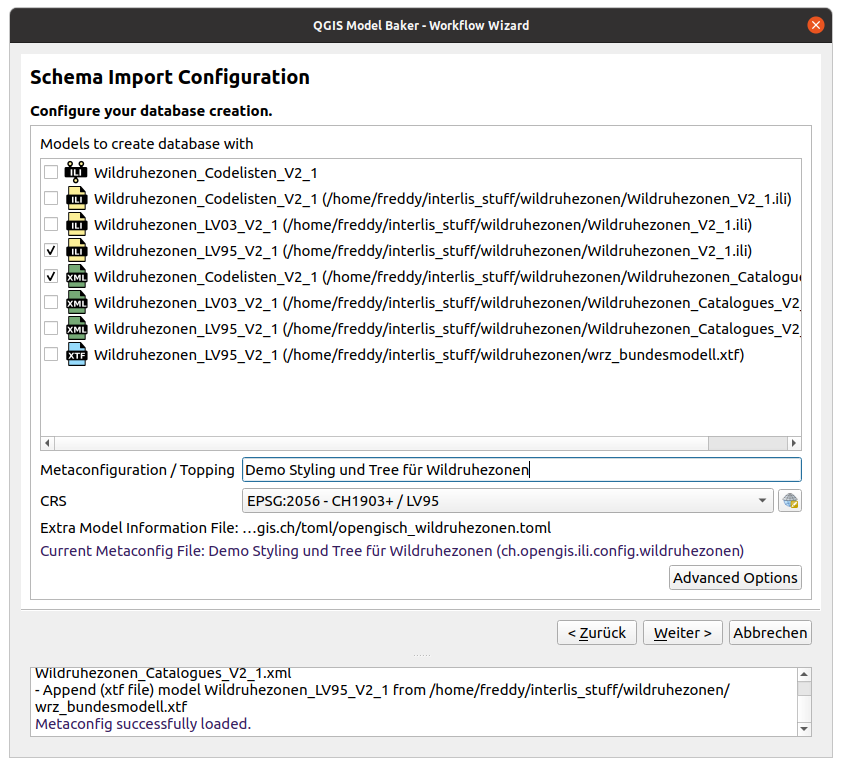
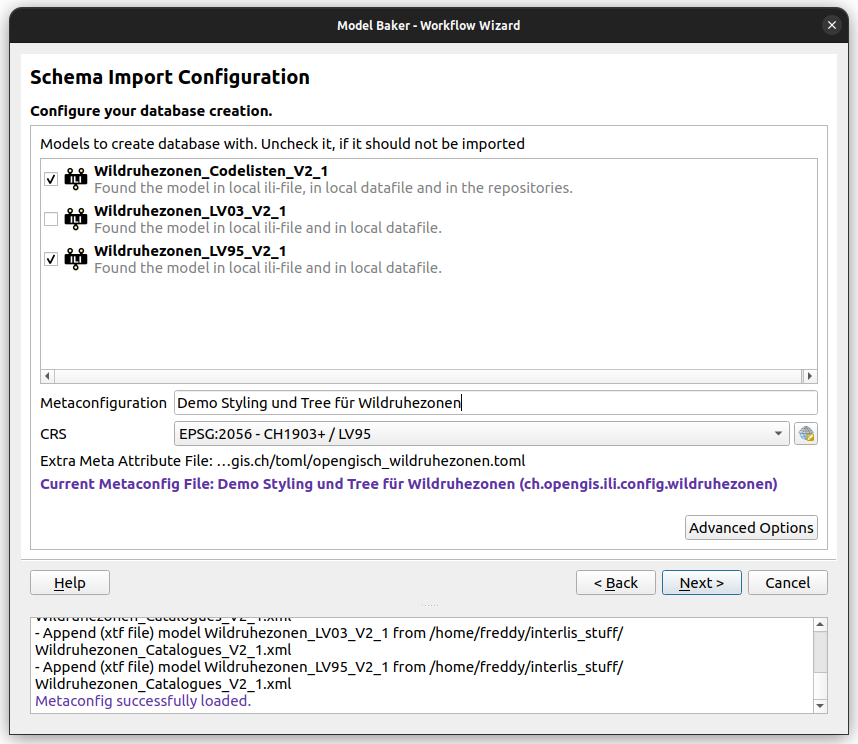
docu

Changed region(s): [[0.0, 0.0, 1.0, 1.0]]

diff --git a/docs/docs/user_guide/import_workflow.md b/docs/docs/user_guide/import_workflow.md
@@ -64,6 +64,8 @@ When you only got a model name (like in all cases except the one of the local `i
 You can check or uncheck the models you want to import to a physical schema.
 
 !!! Note
+    Via tooltip you can find the information where the model comes from.
+    ![wizard schema tooltip](../assets/workflow_wizard_schema_import_tooltip.png)
     If our model requires (according to the ilidata.xml) a codelist and this codelist bases on a model that is not structurally linked (imported) to our model, it will appear here as well.
     ![linked model](../assets/workflow_wizard_schema_import_linked_models.png)
 
